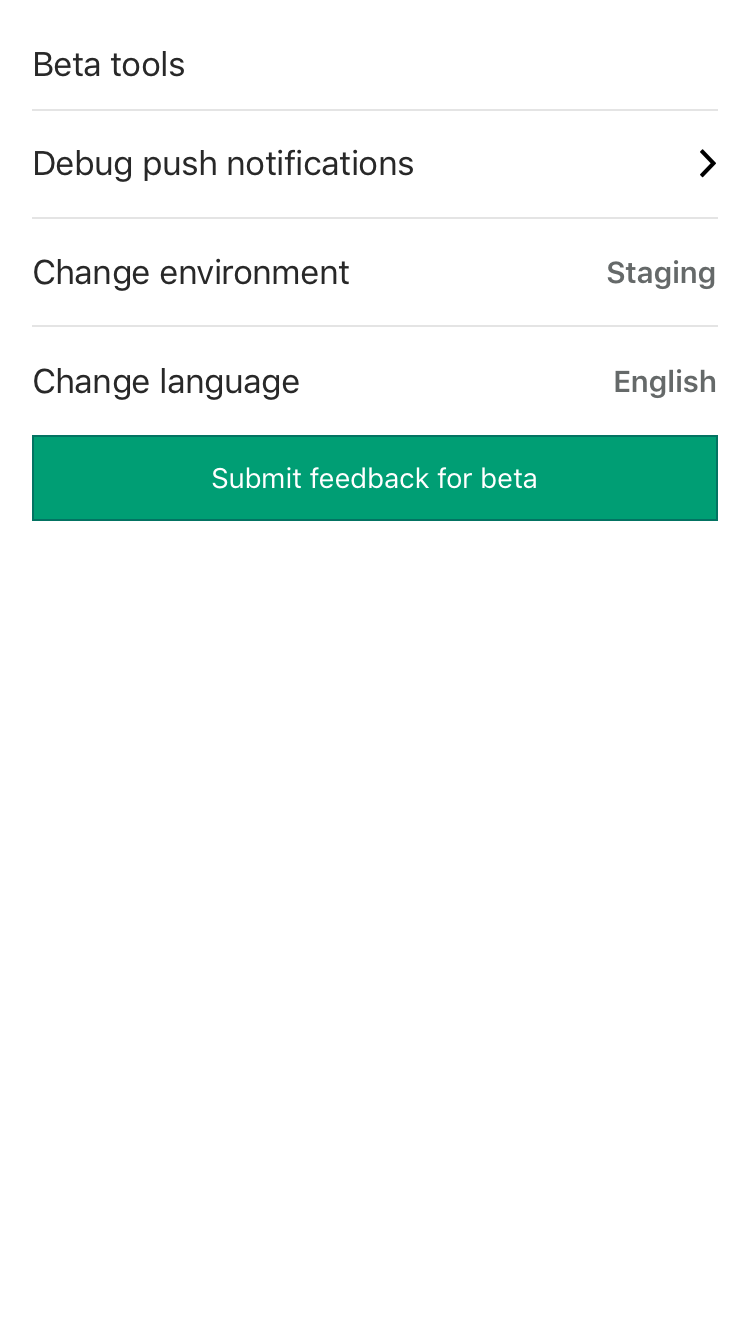
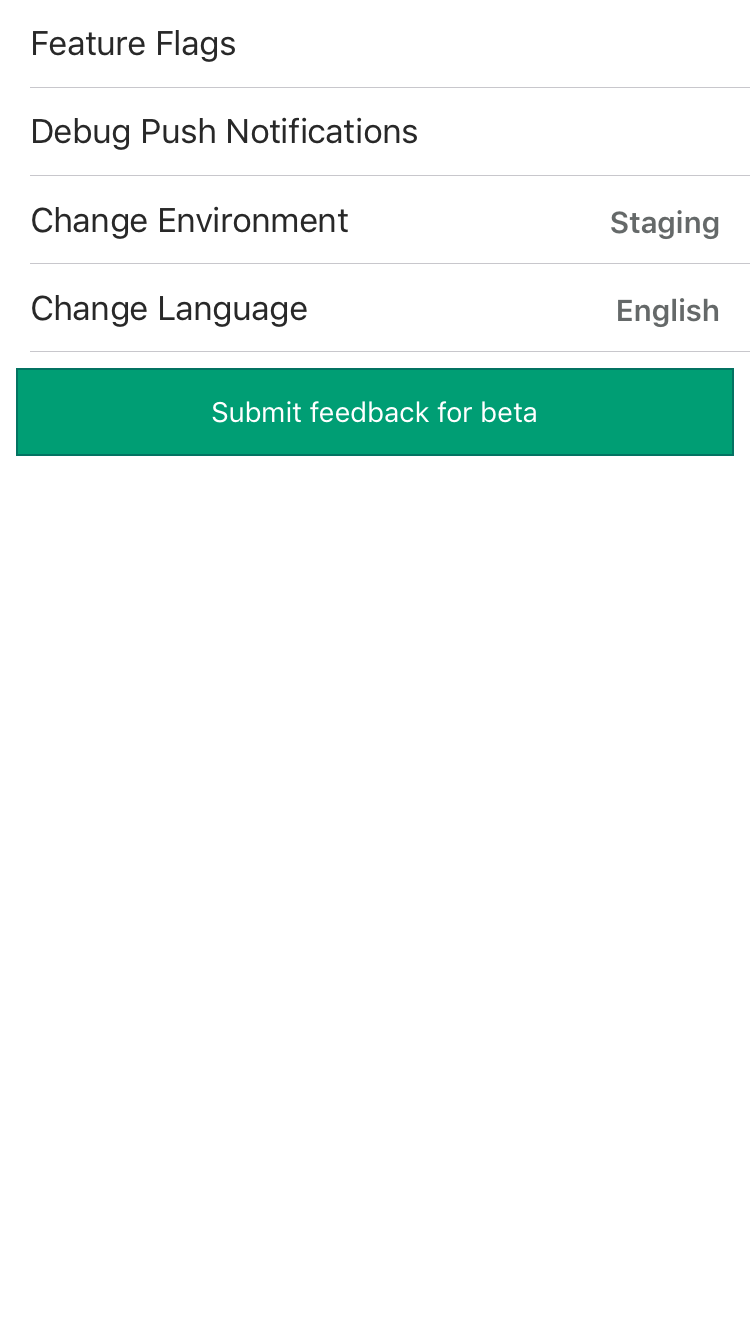
Updating BetaTools screenshot and fixing naming issue

Changed region(s): [[0.0, 0.2766, 0.9813, 0.3996], [0.0307, 0.0307, 0.552, 0.2459], [0.7973, 0.1229, 0.9813, 0.2459]]

diff --git a/Library/ViewModels/BetaToolsViewModelTests.swift b/Library/ViewModels/BetaToolsViewModelTests.swift
@@ -15,8 +15,8 @@ final class BetaToolsViewModelTests: TestCase {
   private let logoutWithParams = TestObserver<DiscoveryParams, Never>()
   private let reloadWithDataCurrentLanguage = TestObserver<String, Never>()
   private let reloadWithDataCurrentEnvironment = TestObserver<String, Never>()
-  private let showChangeEnvironmentSheet = TestObserver<(), Never>()
-  private let showChangeLanguageSheet = TestObserver<(), Never>()
+  private let showChangeEnvironmentSheetWithSourceViewIndex = TestObserver<Int, Never>()
+  private let showChangeLanguageSheetWithSourceViewIndex = TestObserver<Int, Never>()
   private let showMailDisabledAlert = TestObserver<(), Never>()
   private let updateLanguage = TestObserver<Language, Never>()
   private let updateEnvironment = TestObserver<EnvironmentType, Never>()
@@ -30,8 +30,10 @@ final class BetaToolsViewModelTests: TestCase {
     self.vm.outputs.logoutWithParams.observe(self.logoutWithParams.observer)
     self.vm.outputs.reloadWithData.map { $0.0 }.observe(self.reloadWithDataCurrentLanguage.observer)
     self.vm.outputs.reloadWithData.map { $0.1 }.observe(self.reloadWithDataCurrentEnvironment.observer)
-    self.vm.outputs.showChangeEnvironmentSheet.observe(self.showChangeEnvironmentSheet.observer)
-    self.vm.outputs.showChangeLanguageSheet.observe(self.showChangeLanguageSheet.observer)
+    self.vm.outputs.showChangeEnvironmentSheetWithSourceViewIndex
+      .observe(self.showChangeEnvironmentSheetWithSourceViewIndex.observer)
+    self.vm.outputs.showChangeLanguageSheetWithSourceViewIndex
+      .observe(self.showChangeLanguageSheetWithSourceViewIndex.observer)
     self.vm.outputs.showMailDisabledAlert.observe(self.showMailDisabledAlert.observer)
     self.vm.outputs.updateLanguage.observe(self.updateLanguage.observer)
     self.vm.outputs.updateEnvironment.observe(self.updateEnvironment.observer)
@@ -58,7 +60,8 @@ final class BetaToolsViewModelTests: TestCase {
 
       self.vm.inputs.didSelectBetaToolsRow(.changeEnvironment)
 
-      self.showChangeEnvironmentSheet.assertValueCount(1)
+      self.showChangeEnvironmentSheetWithSourceViewIndex
+        .assertValues([BetaToolsRow.changeEnvironment.rawValue])
 
       self.vm.inputs.setEnvironment(.production)
 
@@ -87,7 +90,8 @@ final class BetaToolsViewModelTests: TestCase {
 
       self.vm.inputs.didSelectBetaToolsRow(.changeLanguage)
 
-      self.showChangeLanguageSheet.assertDidEmitValue()
+      self.showChangeLanguageSheetWithSourceViewIndex
+        .assertValues([BetaToolsRow.changeLanguage.rawValue])
 
       self.vm.inputs.setCurrentLanguage(.en)
 
